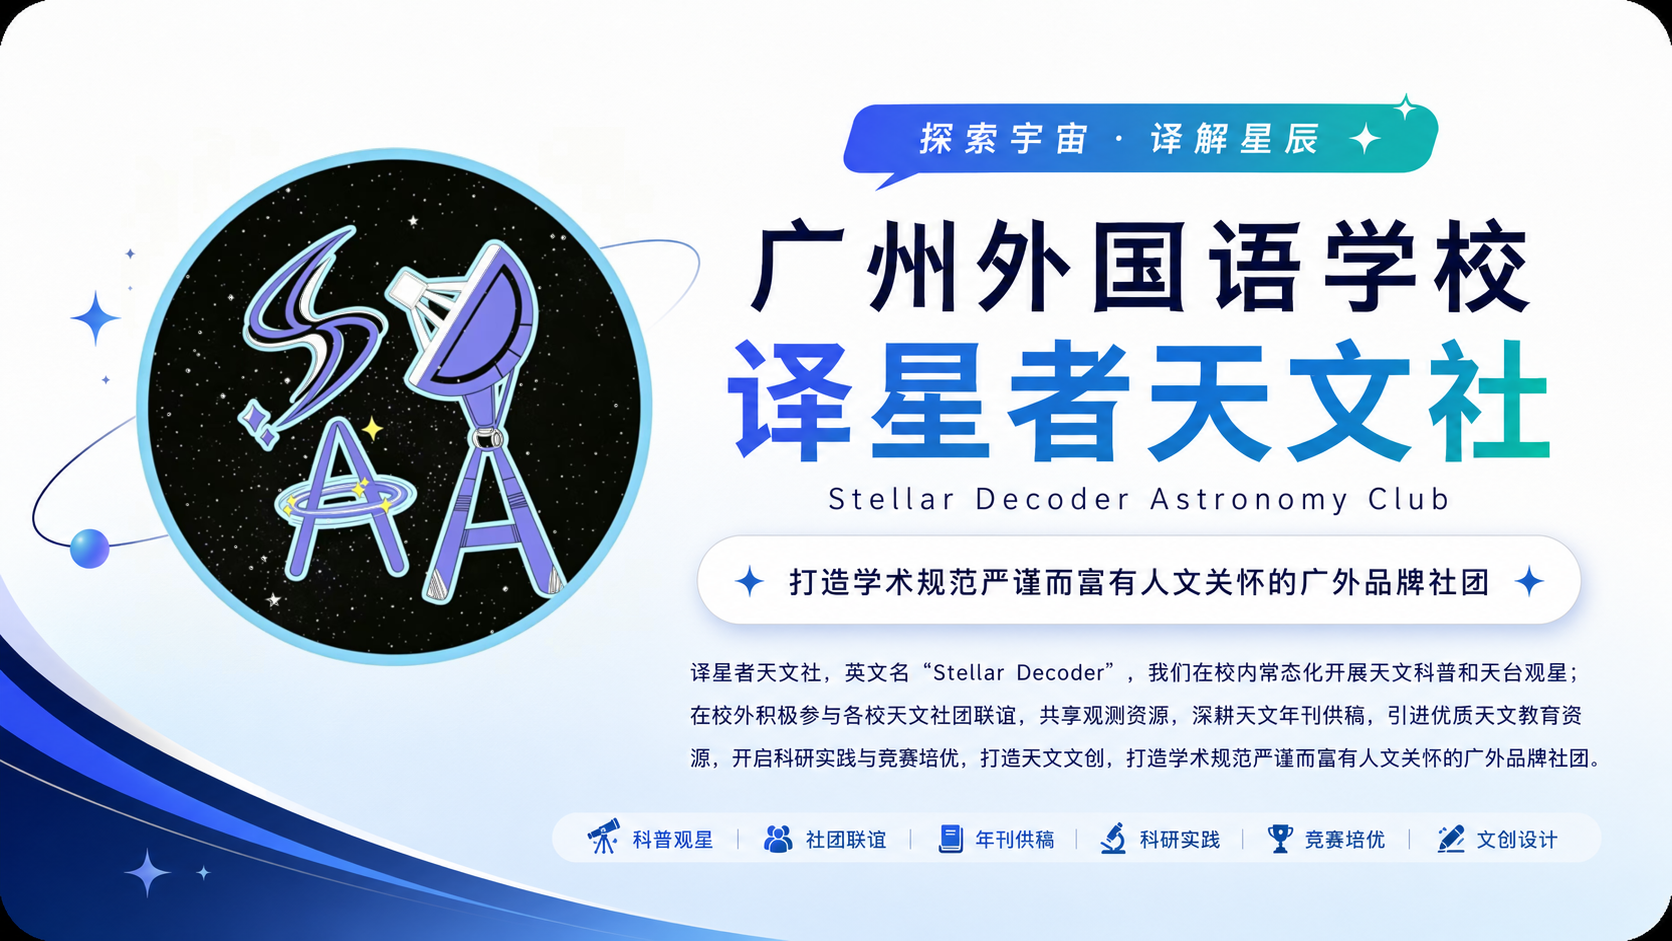
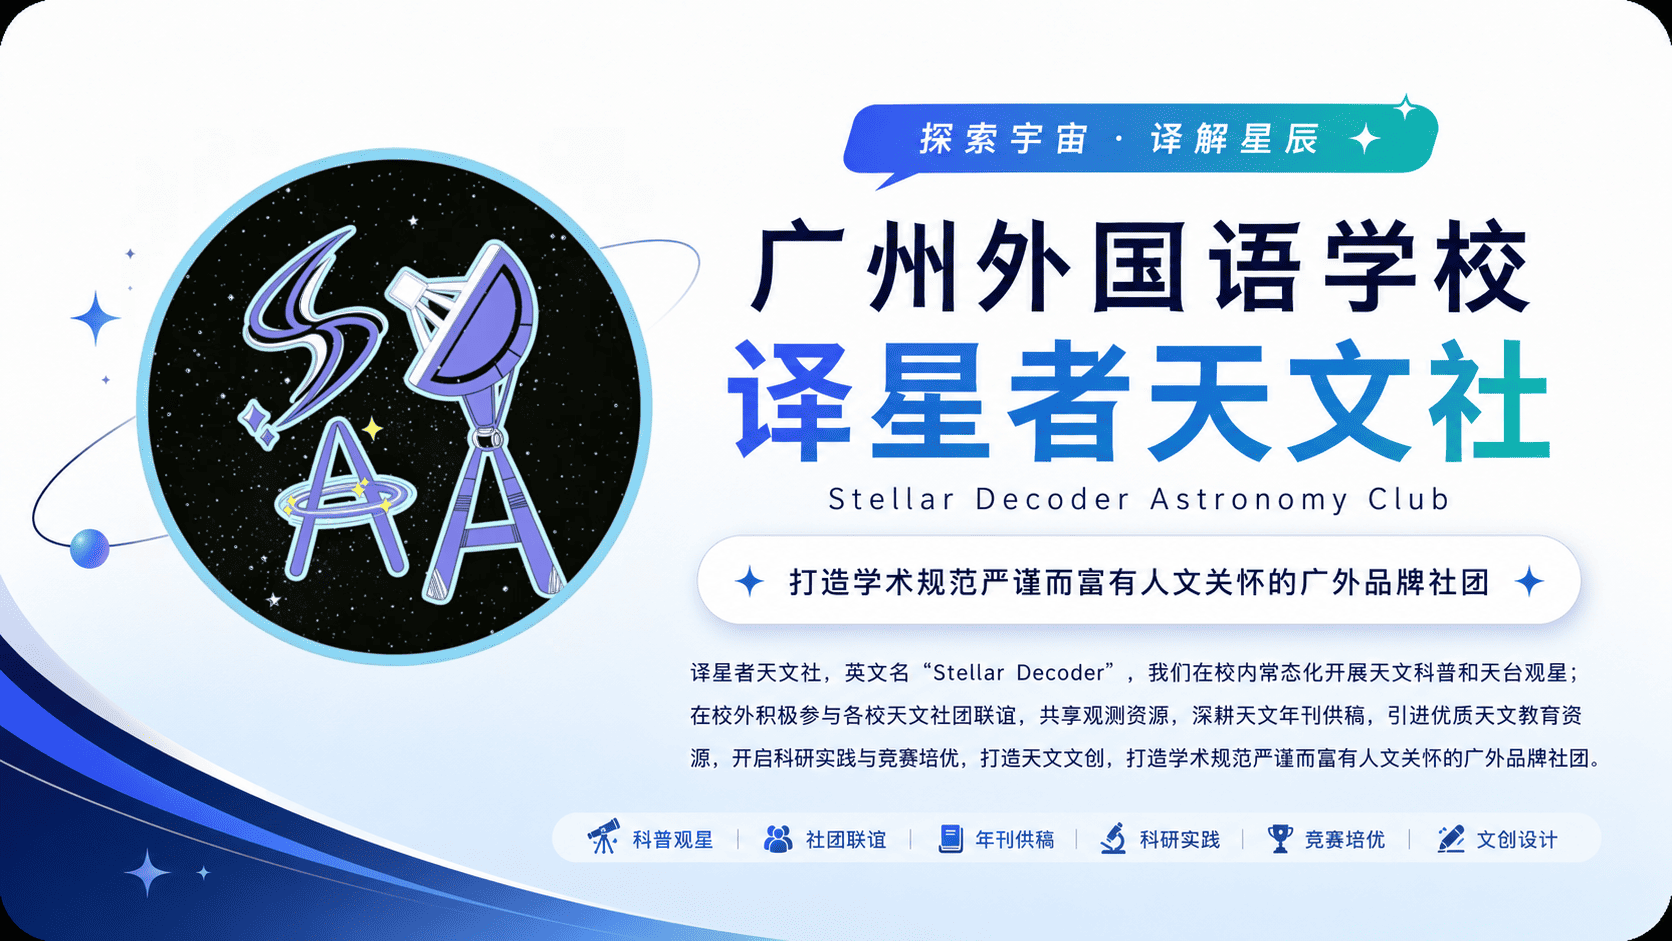
fix：更新meta信息&压缩图片

diff --git a/src/pages/index.js b/src/pages/index.js
@@ -32,8 +32,8 @@ export default function Home() {
   const {siteConfig} = useDocusaurusContext();
   return (
     <Layout
-      title={`Hello from ${siteConfig.title}`}
-      description="Description will go into a meta tag in <head />">
+      title={`欢迎来到${siteConfig.title}`}
+      description="广州外国语学校译星者天文社，英文名“Stellar Decoder”，我们在校内开展天文科普和天台观星，在校外积极参与各校天文社团联谊，打造学术规范严谨而富有人文关怀的广外品牌社团。">
       <HomepageHeader />
       <main>
         <HomepageFeatures />